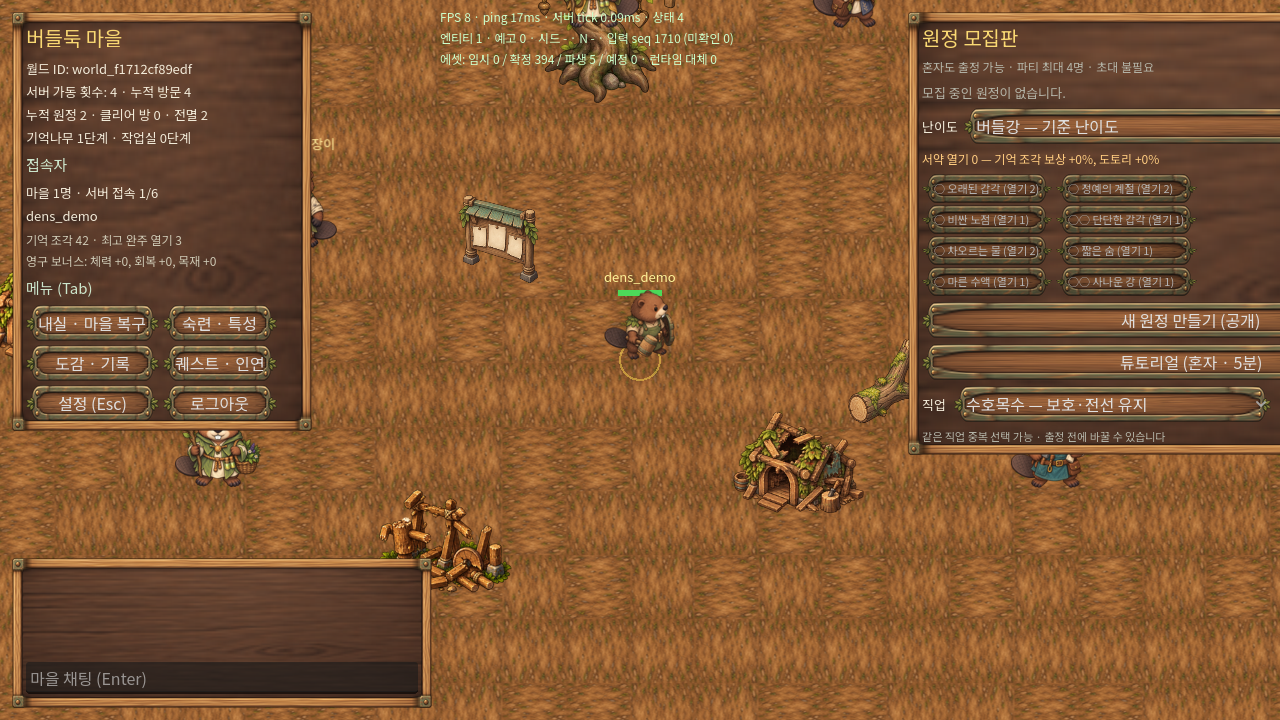
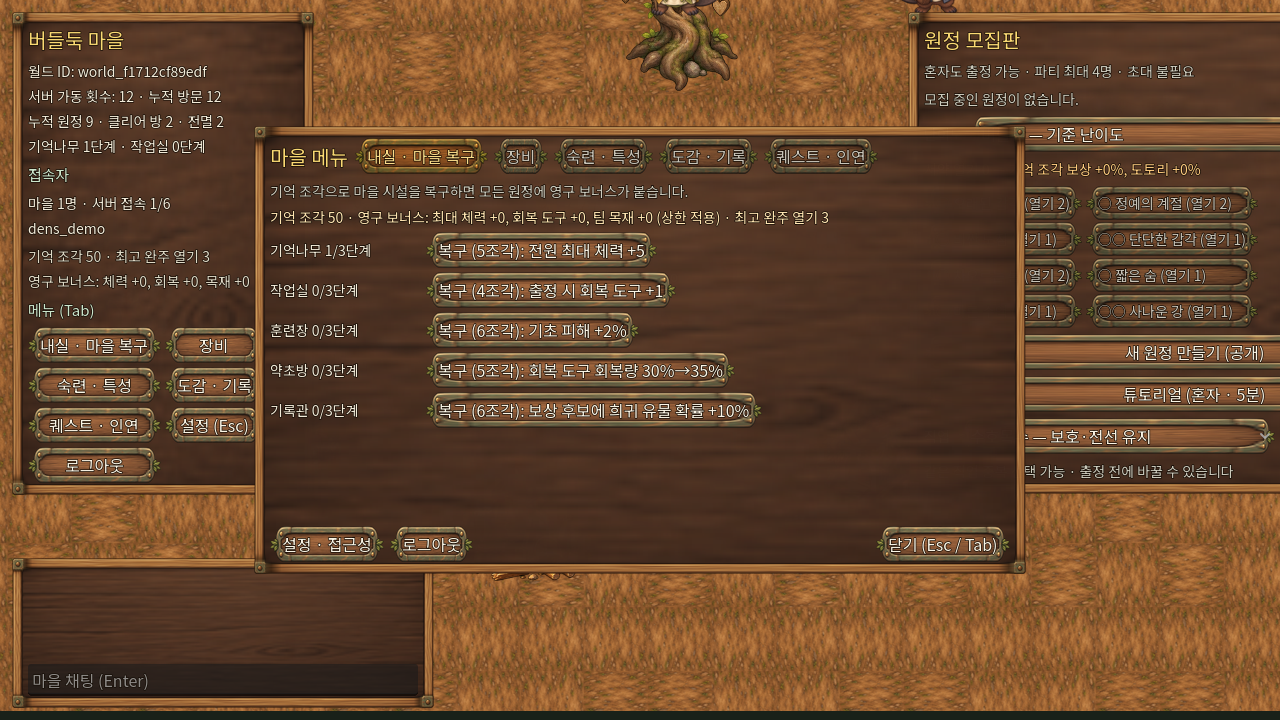
가독성 패스: 글자 외곽선·크기 하한 14px·흐린 색 보정·패널 대비·월드 글자 외곽선·줄바꿈
- UIKit 테마: Label/Button/RichTextLabel/LineEdit/OptionButton 에 어두운 외곽선 3px, 버튼·라벨 기본 색 밝게, 패널 여백 확대와 나무결 어둡게
- UIKit.label: 크기 하한 14, readable_color 로 저명도 회색 보정. 11~13px 오버라이드 전부 상향
- 월드 글자(이름표·정예 표시·문 안내·지도 제목·격자 글자) draw_string_outline
- 마을 메뉴: 안내문 자동 줄바꿈(패널 폭 760 유지), 장비·도안 버튼 글자 잘림 처리, 중앙에서 양방향 성장
- 던전 지도 제목 바탕 폭을 글자 폭에 맞춤, 탐색 안내 토스트 짧게, 데모 캡처는 --overlay 없으면 개발 정보 숨김
- 기본 UI 배율 1.0 유지(설정에서 조절). 스크린샷 갱신, playtest_notes 기록

Claude-Session: https://claude.ai/code/session_01N8xJymo9FGyYVNv94d4Kf7

diff --git a/docs/playtest_notes.md b/docs/playtest_notes.md
@@ -51,3 +51,8 @@
 - 제작 도안 9종(고급 3 기본, 희귀·영웅 6은 보스 처치 해금). 비용 결정 4/10/24 + 기억 조각 2/5/12.
 - 확인할 것: +5 도전 기대 시도 수 ≈ 2.5회(비용 18×계수)라 전설 +5 는 결정 100개 안팎. 파괴 1% 는 5단계 전부 도전 시 누적 약 4~5%.
 
+### 적용 기록 (2026-09-21, 가독성 패스)
+- 사용자 지적 "전체적으로 가독성이 떨어진다". 적용: 모든 글자에 어두운 외곽선 3px(테마: Label·Button·RichTextLabel·LineEdit·OptionButton), 글자 크기 하한 14px(11~13px 사용처 전부 상향), 흐린 회색 안내 글자 밝기 보정(`UIKit.readable_color`), 패널 나무결 살짝 어둡게(대비), 패널 안쪽 여백 확대, 월드 글자(이름표·문 안내·지도)도 외곽선, 긴 안내문 자동 줄바꿈, 장비 버튼 글자 잘림(…) 처리, 데모 캡처에서 개발 정보 숨김.
+- 기본 UI 배율은 1.0 유지(1.15 는 1280×720 에서 우측 패널이 밀림). 설정 → "텍스트·UI 크기"로 1.6 까지 올릴 수 있다.
+- 남은 과제: 아이콘 없이 글자로만 구분하는 부분(장비·도안)은 v5 아이콘이 들어오면 줄어든다. 실기(1920×1080)에서 글자 크기 재확인.
+
